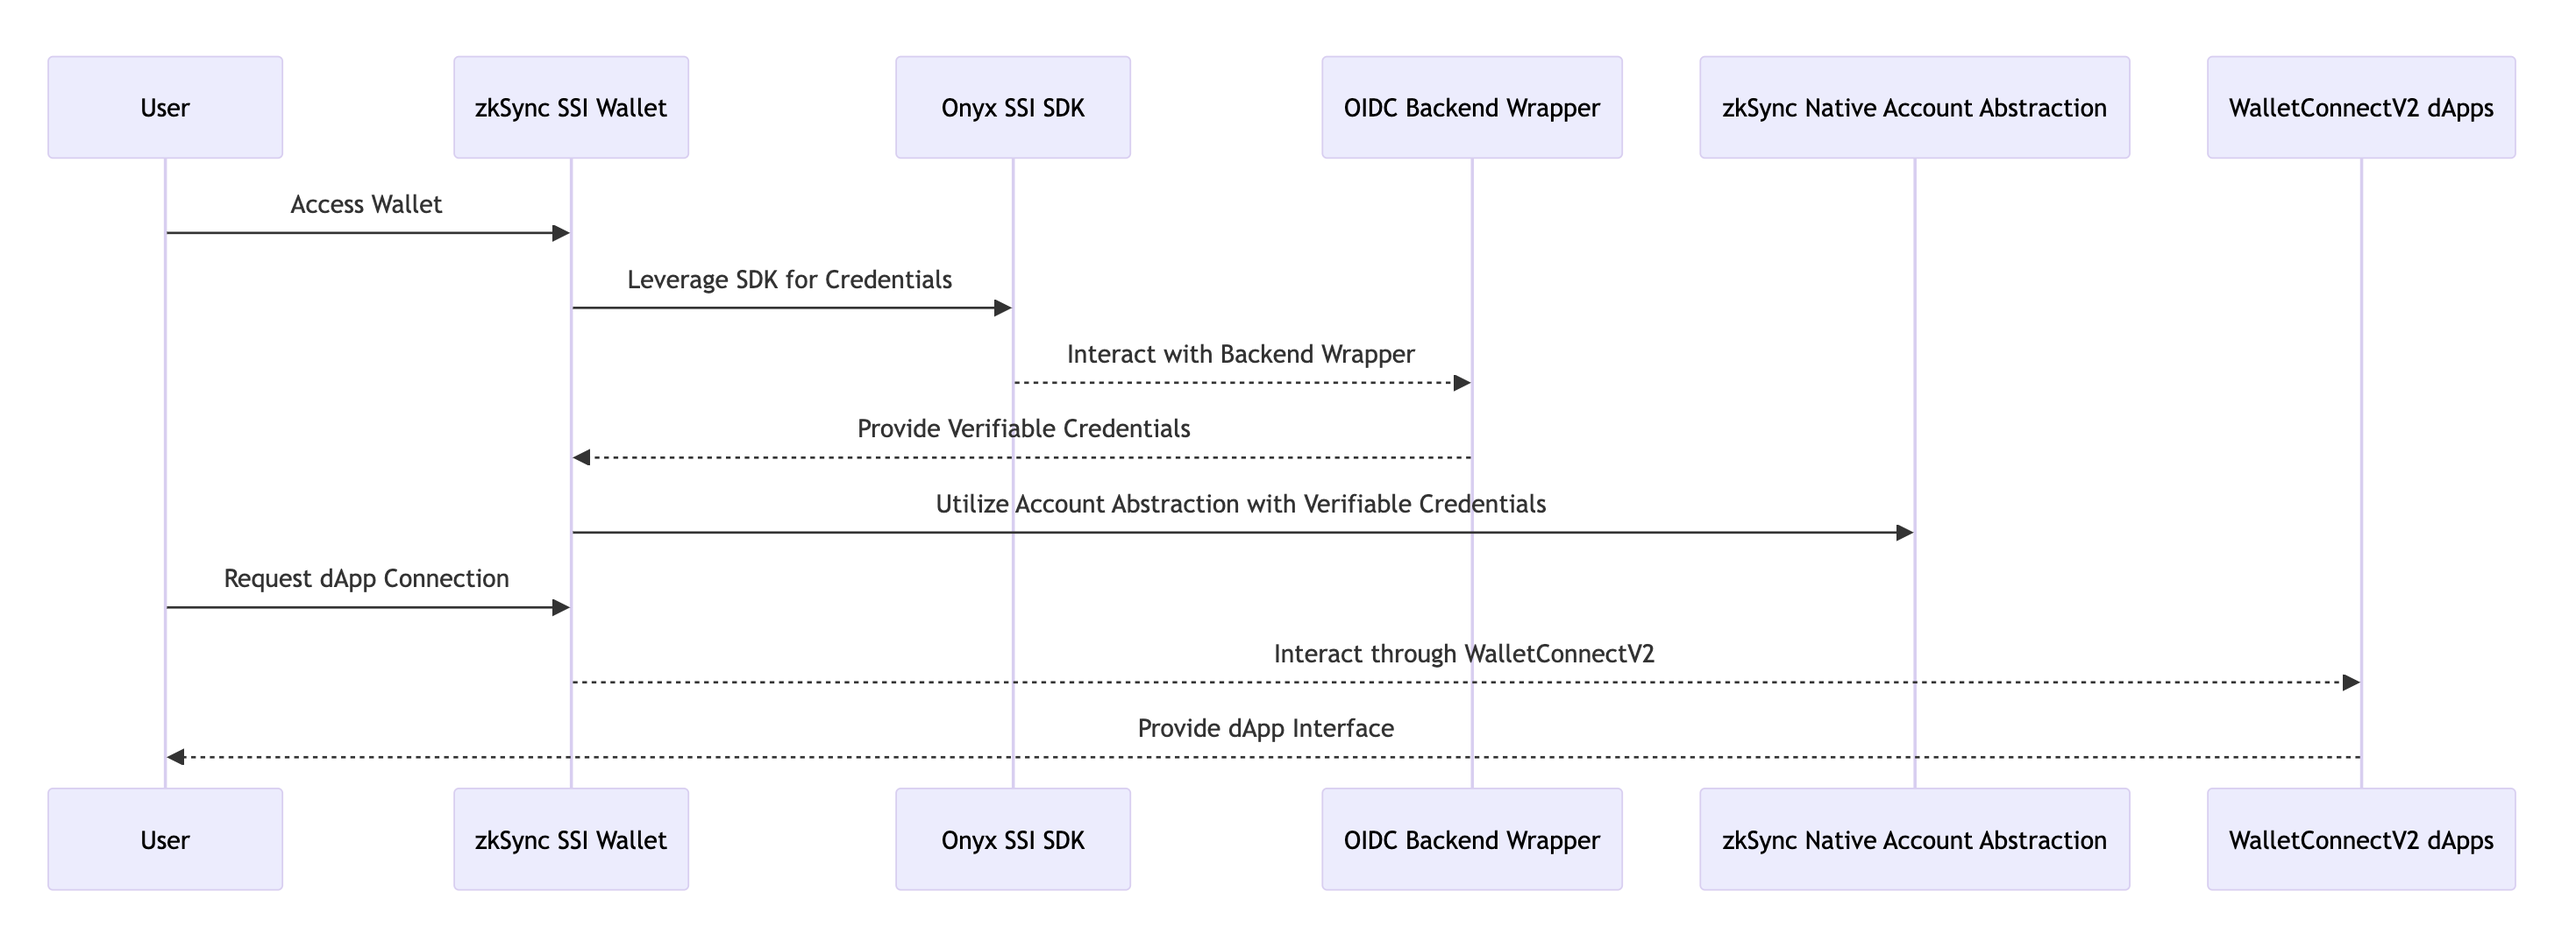
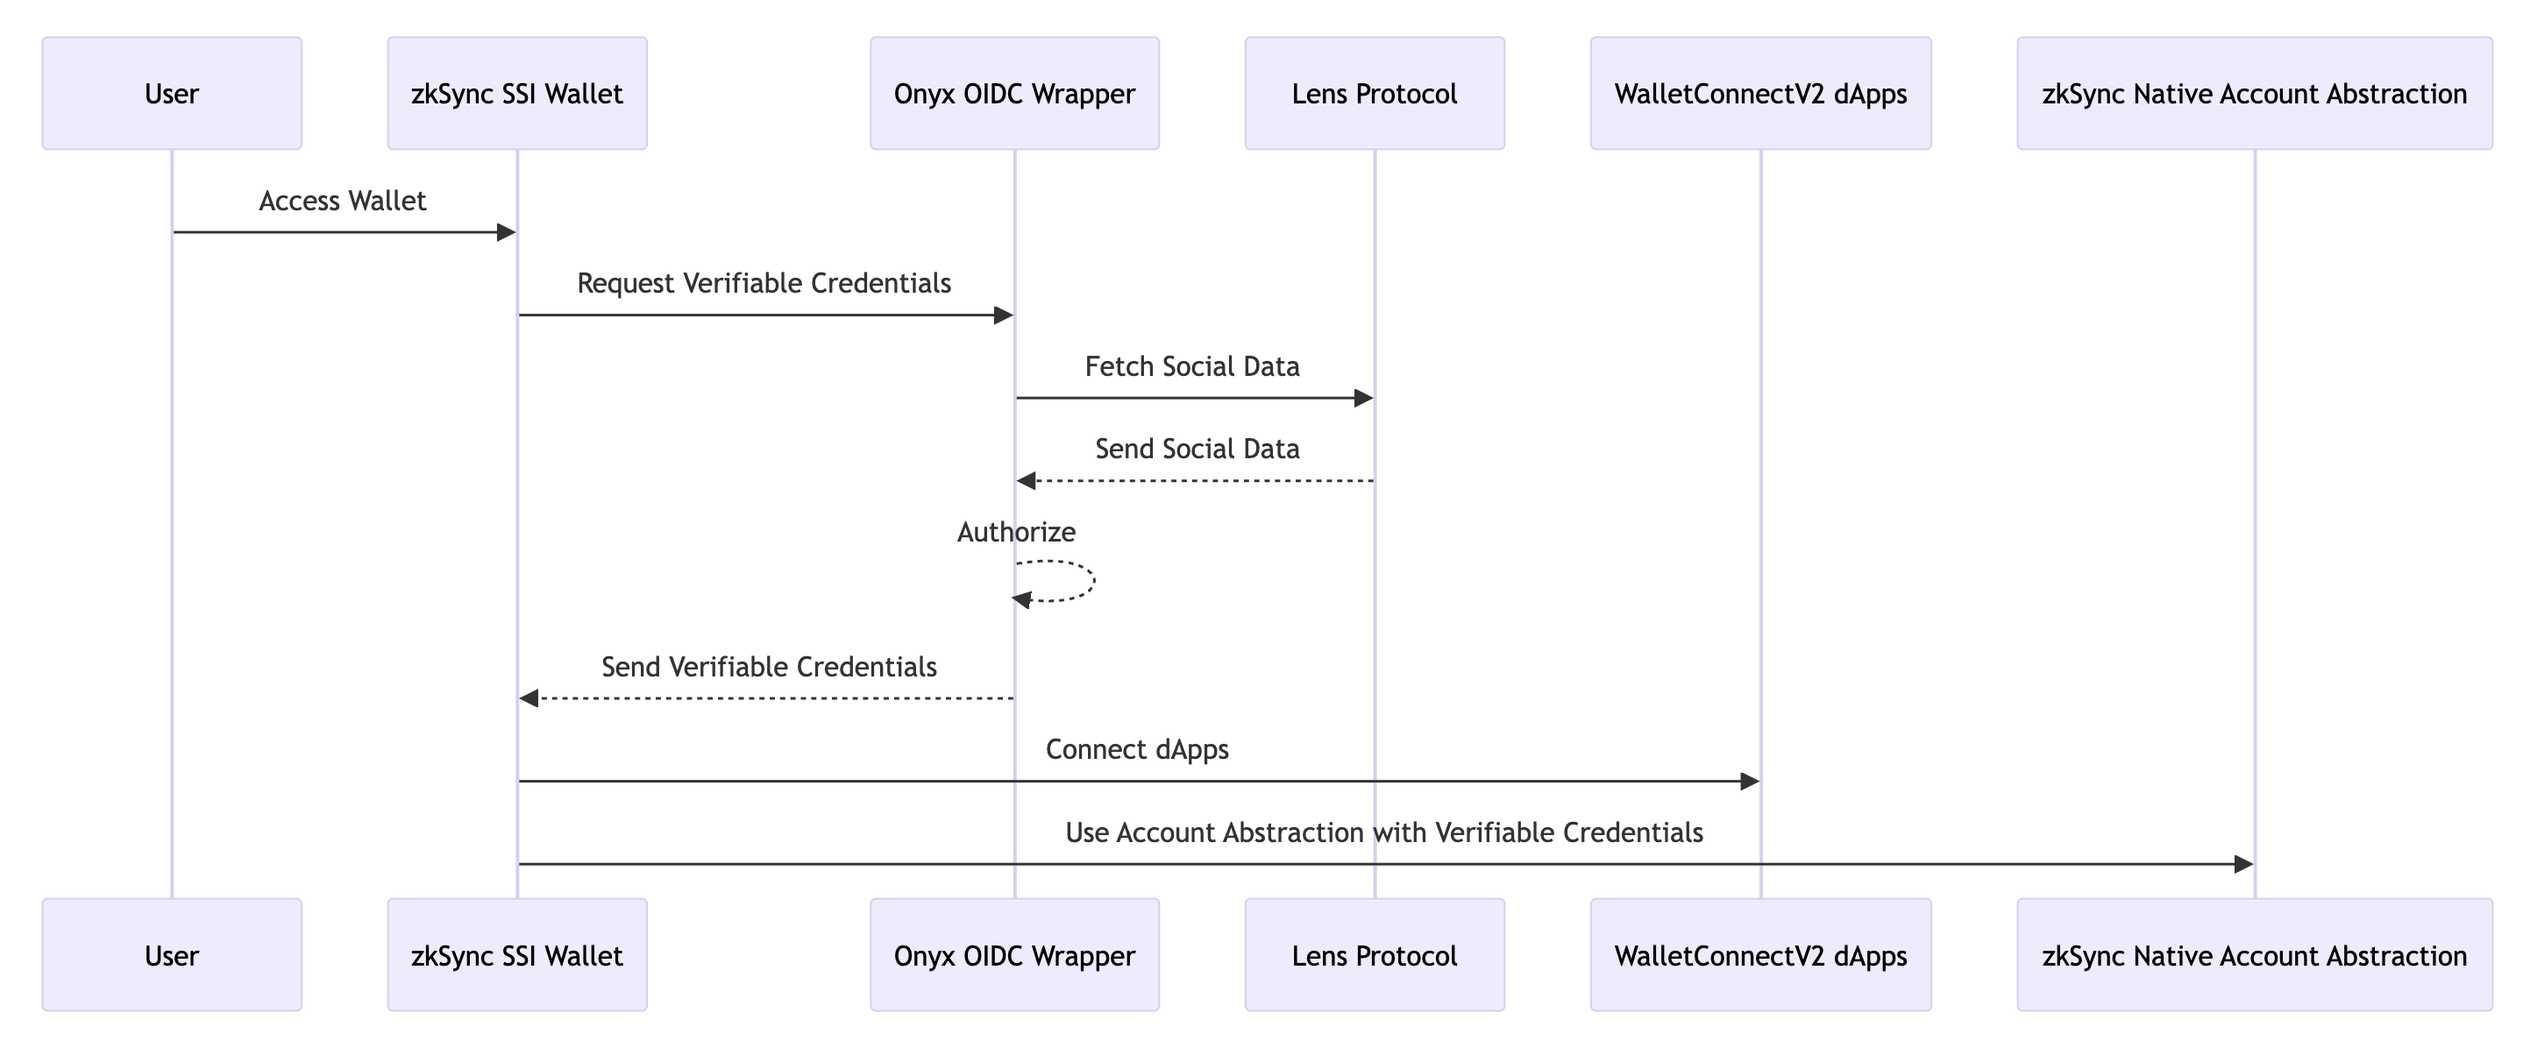
update how it works

diff --git a/README.md b/README.md
@@ -2,24 +2,14 @@
 
 ## Description
 
-zkSync SSI Wallet is a simple-to-use, web-based wallet. It uses Onyx SSI SDK and zkSync features to give users a smooth experience. A special feature is that it helps users save on transaction costs with its unique gas system.
+zkSync SSI Wallet is a simple-to-use, web-based wallet. It uses Onyx SSI SDK, zkSync features, and the Lens Protocol to provide users a seamless and feature-rich experience. A standout feature is its ability to help users save on transaction costs with its innovative gas system.
 
 ## How it Works
 
 - **Integration of Onyx SSI SDK with OIDC Backend Wrapper:** zkSync SSI Wallet leverages the Onyx SSI SDK and integrates it with a smooth backend OIDC system. This combination allows for the issuance, holding, and verification of verifiable credentials directly within the frontend wallet application.
 
+- **Lens Protocol Implementation:** The wallet integrates the Lens Protocol, which allows users to access and manage their social data seamlessly. This feature enhances user experience by providing valuable insights and functionalities based on the user's social data.
+
 - **zkSync Native Account Abstraction:** At its core, the wallet uses zkSync's native Account Abstraction, which allows it to process the extra information present in the verifiable credentials created via Onyx SSI SDK.
 
-- **WalletConnectV2 Compatibility:** The wallet app is adeptly designed to establish seamless interactions with other dApps via WalletConnectV2.
-
 ![diagram](./docs/diagram.png)
-
-## Key Benefits
-
-zkSync SSI Wallet stands at the technological vanguard, offering its users a set of unique advantages:
-
-1. **Unified Credential Management and Security**: Through the integration of the Onyx SSI SDK with the OIDC Backend Wrapper, the wallet facilitates seamless credential issuance, holding, and verification. When paired with zkSync's native Account Abstraction, it guarantees premium security for both credentials and assets.
-
-2. **Optimized Transactions and Cost Efficiency**: The wallet's specialized credential-based gas sponsoring system, combined with zkSync's inherent capabilities, ensures that users experience faster, more dependable transactions that are also cost-effective.
-
-3. **Seamless Integration with the Decentralized Ecosystem**: With WalletConnectV2 Compatibility, the wallet effortlessly connects to a diverse array of dApps. Its browser-based architecture further amplifies this benefit, offering unmatched flexibility and a wide-ranging footprint in the decentralized landscape.
